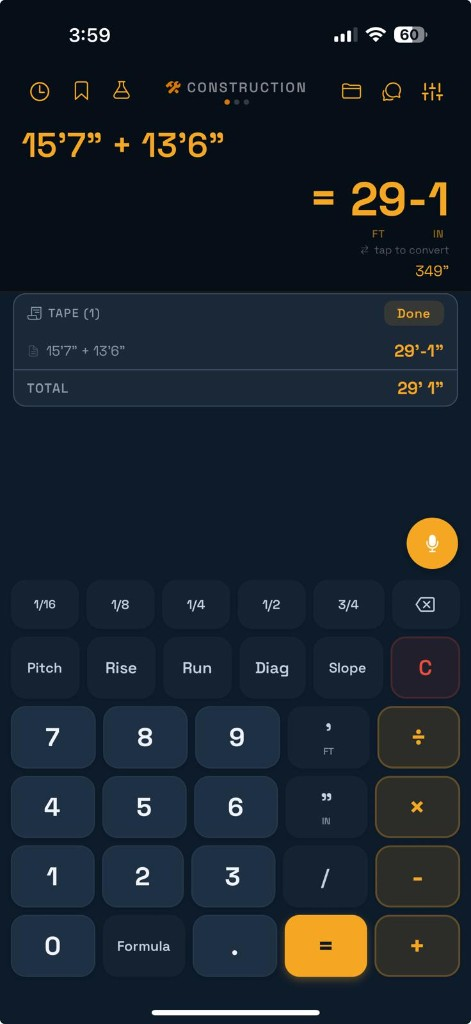
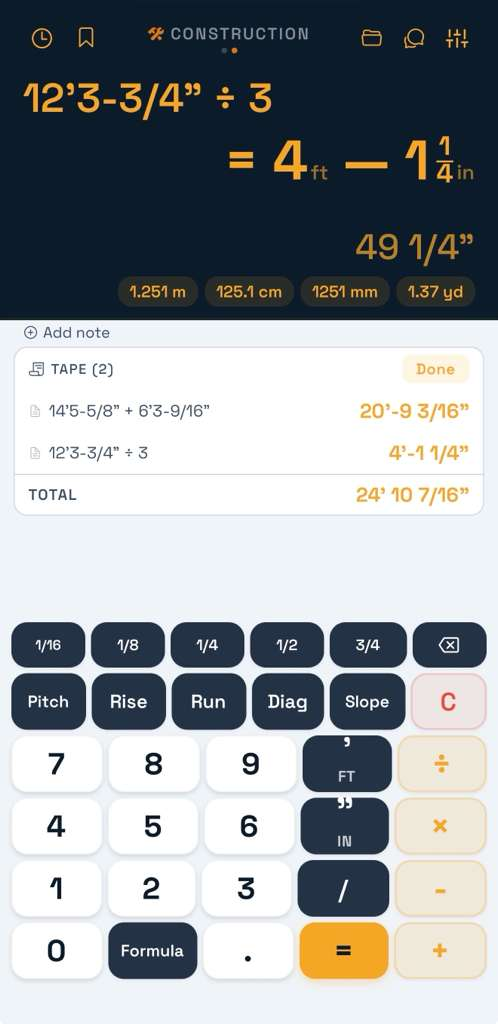
Update hero screenshot to show tape, fractions, and conversions

diff --git a/src/components/HeroSection.tsx b/src/components/HeroSection.tsx
@@ -63,42 +63,18 @@ export function HeroSection() {
           </div>
         </div>
 
-        {/* App screenshots — calculate + convert feature flow */}
+        {/* App screenshot */}
         <div className="mt-16 flex justify-center">
-          <div className="relative flex items-start justify-center">
-            {/* Ambient glow */}
-            <div className="absolute inset-0 bg-[#d97706]/15 rounded-[3rem] blur-3xl scale-75" aria-hidden="true" />
-
-            {/* Second screenshot (convert result) — behind, offset right */}
-            <div className="relative mt-8 -mr-8 z-0">
-              <Image
-                src="/screenshot-convert.png"
-                alt="ulator-Calc showing unit conversion: 8.865 m, 886.5 cm, 8865 mm, 9.69 yd"
-                width={240}
-                height={519}
-                className="rounded-[2rem] shadow-xl border border-white/10 w-[200px] sm:w-[240px] h-auto opacity-90"
-              />
-              {/* Label */}
-              <div className="absolute -bottom-8 left-1/2 -translate-x-1/2 whitespace-nowrap text-xs font-semibold text-[#8B9CB3] text-center">
-                Instant conversion
-              </div>
-            </div>
-
-            {/* First screenshot (calculation) — front, offset left */}
-            <div className="relative z-10 -ml-8">
-              <Image
-                src="/screenshot-calculate.png"
-                alt="ulator-Calc construction mode: 15ft 7in + 13ft 6in = 29ft 1in with tap to convert"
-                width={260}
-                height={562}
-                className="rounded-[2rem] shadow-2xl border border-[#d97706]/30 w-[220px] sm:w-[260px] h-auto"
-                priority
-              />
-              {/* Label */}
-              <div className="absolute -bottom-8 left-1/2 -translate-x-1/2 whitespace-nowrap text-xs font-semibold text-[#d97706] text-center">
-                Exact framing math
-              </div>
-            </div>
+          <div className="relative w-[280px] sm:w-[320px]">
+            <div className="absolute inset-0 scale-90 bg-[#d97706]/20 rounded-[3rem] blur-2xl" aria-hidden="true" />
+            <Image
+              src="/app-screenshot.png"
+              alt="ulator-Calc construction mode showing fractions, running tape, and unit conversions"
+              width={320}
+              height={693}
+              className="relative rounded-[2.5rem] shadow-2xl border border-white/10 w-full h-auto"
+              priority
+            />
           </div>
         </div>
       </div>